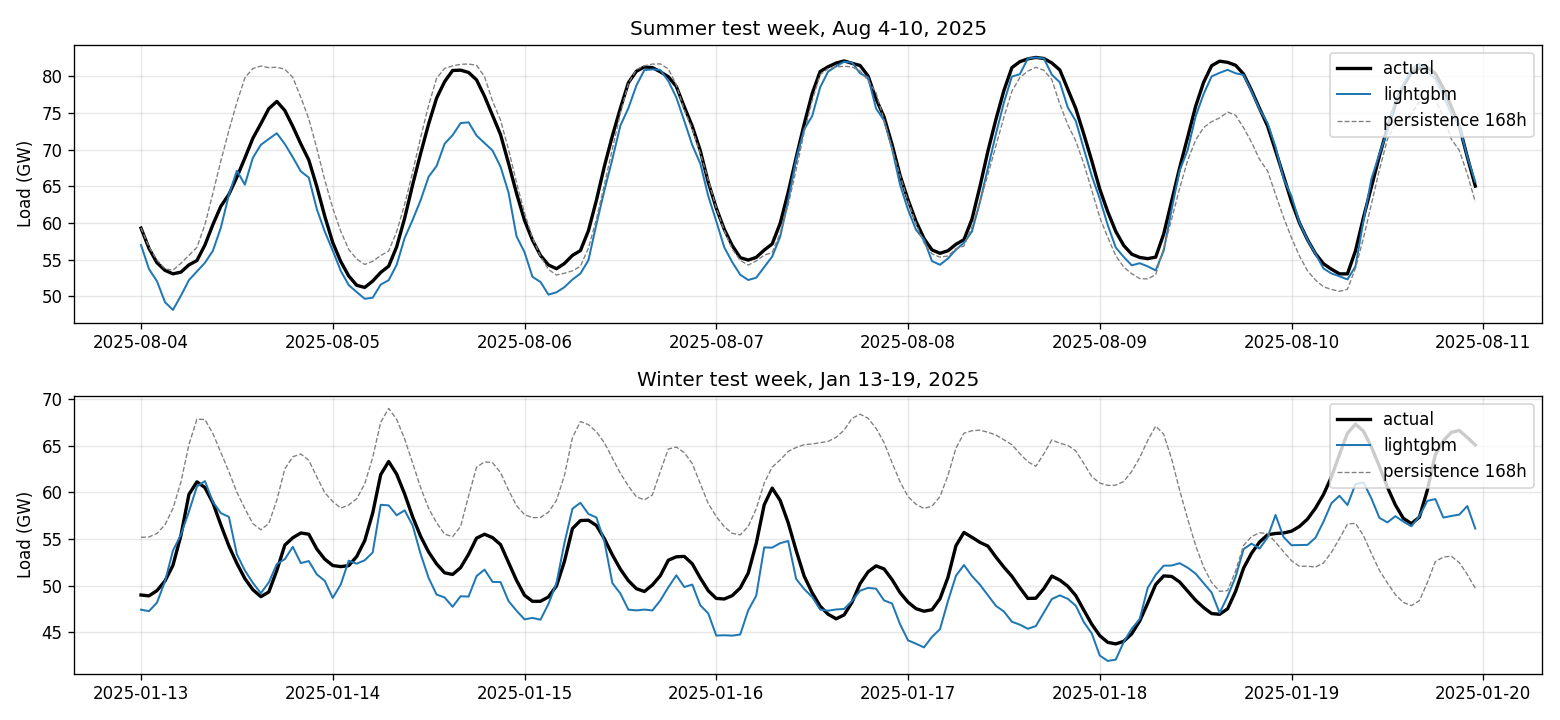
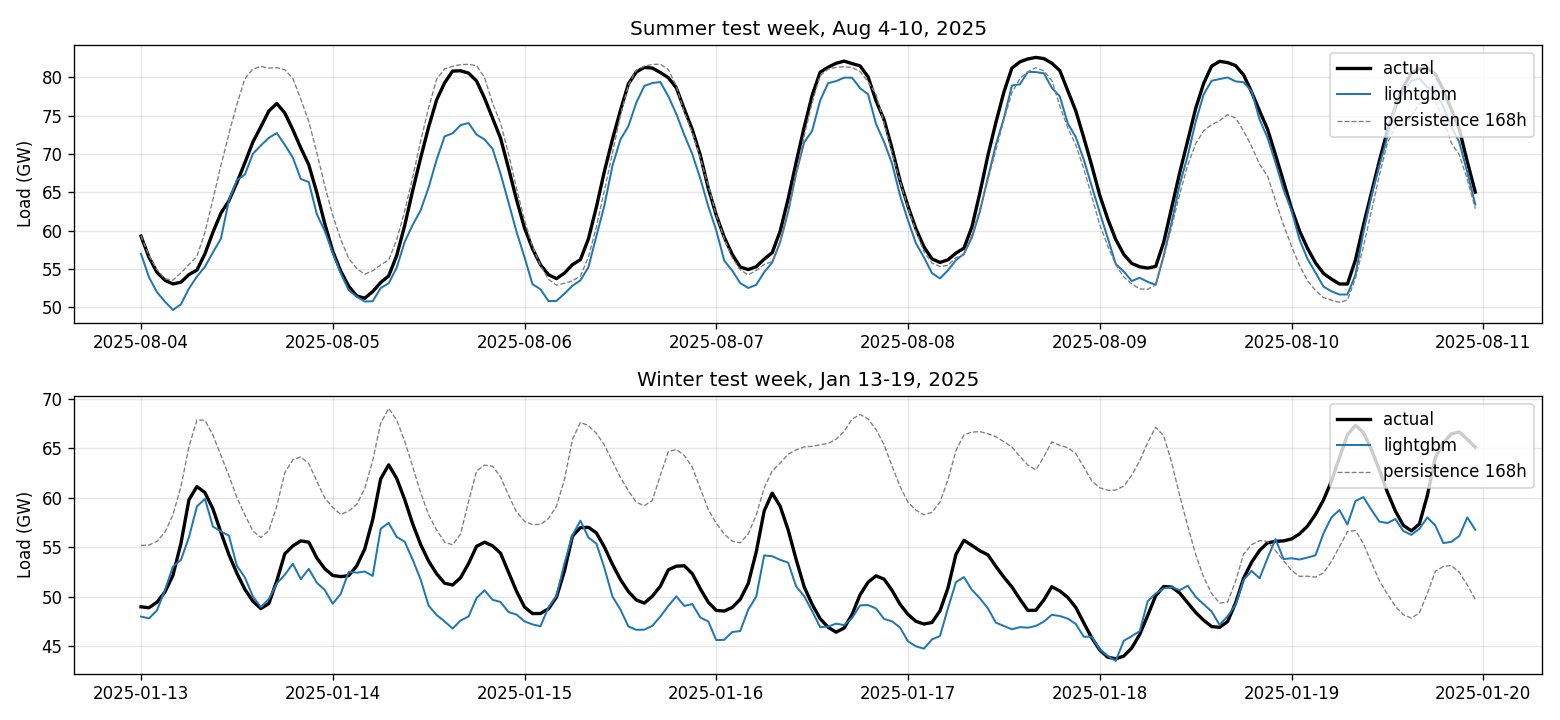
Update plots and README with trend features

diff --git a/README.md b/README.md
@@ -1,0 +1,87 @@
+# ERCOT Load Forecasting
+
+Hourly demand forecasting for ERCOT. Trained on 2024 and tested on 2025. Achieves a 3.64% MAPE with LightGBM on a
+chronological holdout, beating lagged baselines.
+
+## Results
+
+| Model            | MAE (MW)  | MAPE (%) |
+|------------------|-----------|----------|
+| persistence_168h | 4,750     | 8.65     |
+| persistence_24h  | 2,517     | 4.54     |
+| **LightGBM**     | **2,106** | **3.64** |
+
+Actual vs. predicted plot, one summer week and one winter week.
+
+![actual vs predicted](reports/actual_vs_predicted.png)
+
+## Repository Structure
+
+```bash
+├── data
+│   ├── processed       # CSV files used for training
+│   └── raw             # ERCOT load data
+├── notebooks           # exploratory data analysis
+├── reports             # plots
+└── src
+    ├── load_ercot.py   # combine hourly ERCOT data
+    ├── weather.py      # pull hourly weather data from Open-Meteo
+    ├── merge.py        # join load and weather data
+    ├── features.py     # build CSV used to train model
+    └── train.py        # train LightGBM model and output stats
+```
+
+## Reproducing
+
+```bash
+pip install -r requirements.txt
+python src/load_ercot.py
+python src/weather.py
+python src/merge.py
+python src/features.py
+python src/train.py
+```
+
+## Approach
+
+Two years of hourly ERCOT system load (2024-2025) merged with hourly weather data from Dallas, Houston, and
+San Antonio. Train on the year 2024 and test on 2025. Uses a chronological holdout and not a random split since the task
+is forecasting the future from the past.
+
+Features:
+- **Time:** hour, day of week, month, with sin/cos encodings; weekend and US holiday flags; `days_since_start` as a time trend feature.
+- **Weather (Dallas):** cooling and heating degree days, humidity, and dewpoint. Houston and San Antonio went unused as their temps correlate at r > 0.9 with Dallas.
+- **Lags:** ERCOT load 24h and 168h ago.
+
+Model: LightGBM regressor with 500 trees and no tuning.
+
+## Findings
+
+The test week plot suggested the model underpredicts peaks which is often due to boosting with
+squared error pulling toward the conditional mean. However, plotting mean signed error by load decile showed the
+underprediction is present at every level rather than exclusively at peaks.
+
+![bias by decile](reports/bias_by_decile.png)
+
+This signaled a year-over-year shift. Comparing the mean loads between 2024 and 2025 confirms this. The 2025 mean load is **6.1%** above the 2024 mean load 
+(+3,198 MW). ERCOT demand grew between the training and test years, consistent with reported growth in Texas grid demand.
+
+I added a `days_since_start` feature to help the model learn the trend. It came out to roughly 1% of the total feature
+importance but moved MAPE by only 0.05 percentage points. This is inherent to tree ensemble models since they cannot
+extrapolate past values from training. Every 2025 row has a `days_since_start` value the model never observed in 2024,
+so it is routed to whichever leaf contained the latest 2024 values and predicts it as if it were still late December 2024.
+The trend feature helps within 2024 patterns but still does not project 2025's higher demand.
+
+A linear model with the same trend features would extrapolate fine, but it would miss the non-linear patterns that
+trees capture, such as how temperature, hour, and season collectively drive demand. A hybrid would be the best solution.
+
+## Limitations and Future Work
+
+- **Distribution shift not fully resolved.** Fixing it would require a hybrid model that fits the growth trend with a linear component and the residuals with a tree.
+- **Houston and San Antonio weather unused.** Multi-city weather data might slightly improve performance despite high temperature correlation.
+- **No hyperparameter tuning.** A quick search over `num_leaves`, `learning_rate`, and `min_child_samples` would likely yield slight MAPE improvement.
+- **Fixed 24h horizon.** Only 24 hour ahead is supported. Forecasting further out would require feature changes.
+
+## Data Sources
+- ERCOT Native Load (hourly): [ERCOT](https://www.ercot.com/)
+- Weather: [Open-Meteo Historical API](https://open-meteo.com/)
